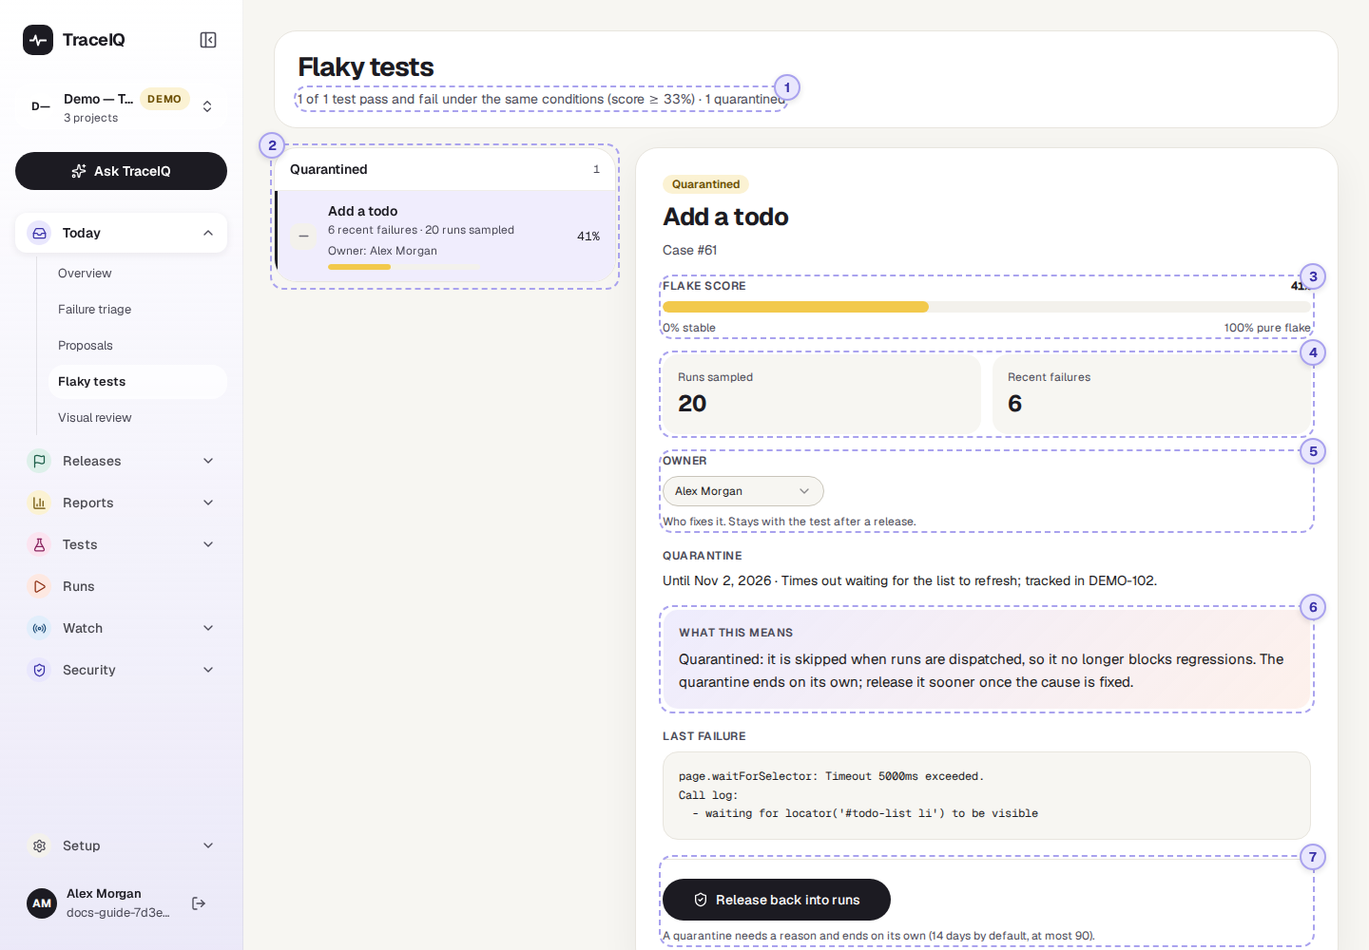
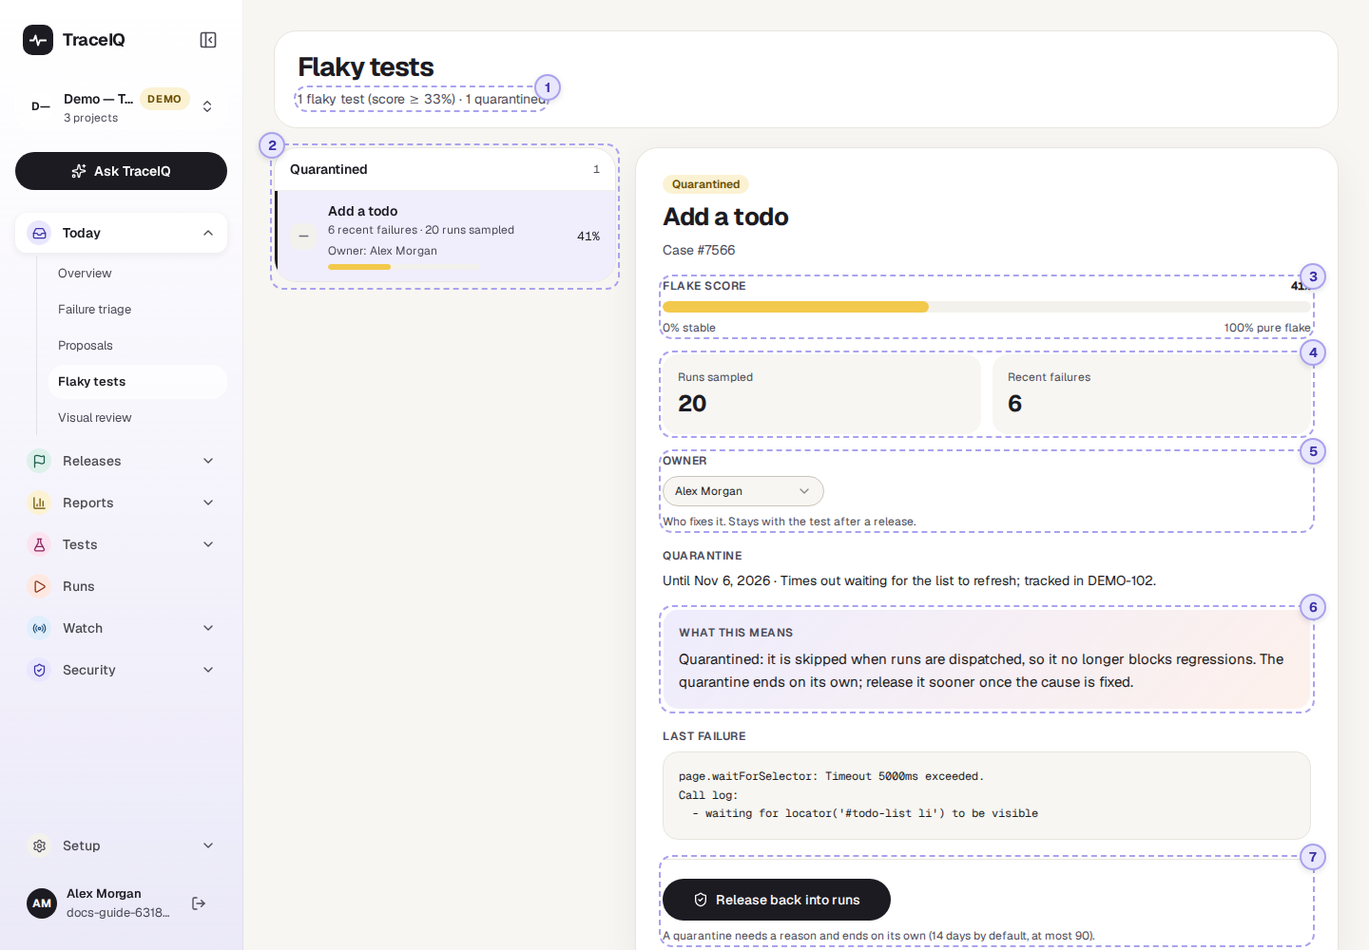
fix(delete): deleting runs clears the summaries built from them; Flaky tests hides stable tests [skip ci]
Failure triage, Flaky tests, flake trends and dependency health kept
showing data from deleted runs: they live in their own tables keyed by
project/case/day. cascade_delete (async path = user-initiated run, suite and
case deletes) now runs derived_prune.prune_after_delete for the affected
projects in the same transaction:
- failure groups with no result left (ticket/incident pointers cleared);
- flake records + per-case daily scores of cases with no result left,
  except quarantined or owned records (a person's decision);
- flake trend days with no run on or before them;
- dependency-health days with no run that day.
The retention sweep (sync path) is untouched on purpose: there, trend
history outliving old runs is intended.

Flaky tests listed every case with run history, mostly at 0%. It now lists
only flaky (score >= 0.33) or quarantined (active/expired) tests, with a
"Show N stable tests" toggle. Guide pages + pictures updated.

Changed region(s): [[0.2188, 0.062, 0.5938, 0.124], [0.5312, 0.589, 0.8438, 0.62], [0.5, 0.248, 0.5312, 0.279]]

diff --git a/frontend/src/pages/FlakyTests.tsx b/frontend/src/pages/FlakyTests.tsx
@@ -6,14 +6,13 @@ import { toast } from 'sonner';
 import { useActiveProjectId } from '@/hooks/useActiveProject';
 import { flakesApi, FlakinessEntry } from '@/api/flakes';
 import { FlakeOwnerSelect, QuarantineDialog } from '@/components/flakes/FlakeControls';
-import { errorDetail, quarantineSummary } from '@/components/flakes/flakeHelpers';
+import { errorDetail, FLAKY_SCORE, isListedFlake, quarantineSummary } from '@/components/flakes/flakeHelpers';
 import {
     DetailCard, EmptyState, Eyebrow, KindChip, ListGroup, ListRow, PageHeader, Panel, Pill, SplitView,
 } from '@/components/redesign/primitives';
 import { cn } from '@/lib/utils';
 
 const pctOf = (score: number) => Math.round(Math.max(0, Math.min(1, score)) * 100);
-const FLAKY_SCORE = 0.33;
 const barColour = (score: number) => (score >= 0.66 ? 'bg-[#E0603A]' : score >= FLAKY_SCORE ? 'bg-[#F2C94C]' : 'bg-[#8FD3B6]');
 
 // ---------------------------------------------------------------------------
@@ -157,6 +156,7 @@ function FlakeDetail({ entry, projectId }: { entry: FlakinessEntry; projectId: n
 export default function FlakyTests() {
     const projectId = useActiveProjectId();
     const [selectedId, setSelectedId] = useState<number | null>(null);
+    const [showStable, setShowStable] = useState(false);
 
     const { data: entries, isLoading, error } = useQuery({
         queryKey: ['flakiness', projectId],
@@ -164,7 +164,11 @@ export default function FlakyTests() {
         enabled: !!projectId,
     });
 
-    const list = [...(entries ?? [])].sort((a, b) => b.flake_score - a.flake_score);
+    const all = [...(entries ?? [])].sort((a, b) => b.flake_score - a.flake_score);
+    // Every test with run history has a record; only flaky or quarantined
+    // ones are listed unless the viewer asks for the stable ones too.
+    const stableCount = all.filter((e) => !isListedFlake(e)).length;
+    const list = showStable ? all : all.filter(isListedFlake);
     const groups = [
         { name: 'Needs a decision', items: list.filter((e) => e.quarantine_state === 'expired') },
         { name: 'Still in runs', items: list.filter((e) => e.quarantine_state === 'none') },
@@ -172,10 +176,9 @@ export default function FlakyTests() {
     ].filter((g) => g.items.length > 0);
     const selected = list.find((e) => e.test_case_id === selectedId) ?? groups[0]?.items[0] ?? null;
     const quarantined = list.filter((e) => e.quarantine_state === 'active').length;
-    // The list includes every test with history, stable ones too. Count as
-    // flaky the same line the bars and Flake trends use (score >= 0.33,
+    // Flaky = the line the bars and Flake trends use (score >= 0.33,
     // flake_patterns.FLAKY_SCORE; the gate's 0.4 is a separate, stricter line).
-    const flakyCount = list.filter((e) => e.flake_score >= FLAKY_SCORE).length;
+    const flakyCount = all.filter((e) => e.flake_score >= FLAKY_SCORE).length;
 
     return (
         <div className="flex flex-col gap-5">
@@ -183,9 +186,14 @@ export default function FlakyTests() {
                 title="Flaky tests"
                 subtitle={
                     !projectId ? 'Pick a project in the sidebar.'
-                        : entries ? `${flakyCount} of ${list.length} test${list.length === 1 ? '' : 's'} pass and fail under the same conditions (score ≥ ${Math.round(FLAKY_SCORE * 100)}%) · ${quarantined} quarantined`
+                        : entries ? `${flakyCount} flaky test${flakyCount === 1 ? '' : 's'} (score ≥ ${Math.round(FLAKY_SCORE * 100)}%) · ${quarantined} quarantined`
                             : 'Tests that pass and fail under the same conditions. Quarantine them so they stop blocking runs.'
                 }
+                actions={stableCount > 0 ? (
+                    <Button variant="outline" size="sm" onClick={() => { setShowStable((v) => !v); setSelectedId(null); }}>
+                        {showStable ? 'Hide stable tests' : `Show ${stableCount} stable test${stableCount === 1 ? '' : 's'}`}
+                    </Button>
+                ) : undefined}
             />
 
             {!projectId ? (
@@ -199,6 +207,7 @@ export default function FlakyTests() {
             ) : list.length === 0 ? (
                 <EmptyState title="No flaky tests found">
                     When a test's retries show it passing and failing under the same conditions, it appears here with a flake score so you can quarantine it.
+                    {stableCount > 0 && ` ${stableCount} test${stableCount === 1 ? ' has' : 's have'} run history and look${stableCount === 1 ? 's' : ''} stable.`}
                 </EmptyState>
             ) : (
                 <SplitView

diff --git a/frontend/public/docs/today/flaky-tests.html b/frontend/public/docs/today/flaky-tests.html
@@ -69,10 +69,12 @@
         </figure>
 
         <div class="part"><span class="num">1</span><h2 id="summary" data-toc="① The summary line">The summary line</h2></div>
-        <p>Under the heading, for example <em>"1 of 3 tests pass and fail under the same conditions (score ≥ 33%) · 0
-          quarantined"</em>: how many of the tests in the list are flaky (a flake score of 33% or
-          more, the same line as <em>Flake trends</em>; mostly stable tests are listed too), and how
-          many are quarantined right now.</p>
+        <p>Under the heading, for example <em>"1 flaky test (score ≥ 33%) · 1 quarantined"</em>: how
+          many tests in the project are flaky (a flake score of 33% or more, the same line as
+          <em>Flake trends</em>), and how many are quarantined right now.</p>
+        <p>The list shows only flaky tests and quarantined ones. Stable tests are hidden; the
+          <strong>Show N stable tests</strong> button on the right of the heading adds them to the
+          list, and <strong>Hide stable tests</strong> takes them away again.</p>
 
         <div class="part"><span class="num">2</span><h2 id="list" data-toc="② The list of tests">The list of tests</h2></div>
         <figure>
@@ -216,7 +218,8 @@
         <ul>
           <li><strong>TraceIQ quarantines on its own, too.</strong> When a test reaches a score of 40% or more over at least 6 results and isn't quarantined, it is quarantined automatically for 14 days. Its reason then starts with "auto:", for example "auto: flake score 0.45 over 12 runs". An automatic quarantine is lifted by itself if the score drops below 15%; one that a person set never is.</li>
           <li><strong>An ended quarantine is never renewed by itself.</strong> The test runs again, and only a person can quarantine it again.</li>
-          <li><strong>The list isn't only flaky tests.</strong> Every test that has run gets a score, so in a project with history the list also holds stable tests at 0%, and the summary line counts them too. Look at the score and colour, not just at whether a test is listed.</li>
+          <li><strong>Stable tests are hidden, not missing.</strong> Every test that has run gets a score. The list shows a test once its score reaches 33%, or while it has a quarantine (also one that has ended and needs a decision), whatever its score. <strong>Show N stable tests</strong> lists the rest.</li>
+          <li><strong>Deleting runs clears scores.</strong> When the last result of a test is deleted, its score goes too, unless the test is quarantined or has an owner: those are someone's decision and stay.</li>
           <li><strong>Tests are matched by name.</strong> The score and the failure count follow the test's name within the project; two tests with the same name are counted together.</li>
           <li><strong>A quarantine shows up elsewhere.</strong> <em>Release readiness</em> lists the active quarantines, with owner and end date, and can be set to refuse a release when too many tests are quarantined or score 40% or more.</li>
           <li><strong>Who can do what.</strong> Anyone with access to the project can look. Quarantining, releasing and changing the owner need the <em>editor</em> role, and every one of them is written to the audit log.</li>

diff --git a/frontend/public/docs/runs/runs.html b/frontend/public/docs/runs/runs.html
@@ -139,6 +139,7 @@
           <li>Select runs with their tick boxes (or <strong>Select all on this page</strong>) and a <strong>Delete N selected</strong> button appears at the top.</li>
           <li><strong>More → Delete all runs</strong> deletes every run in every project where you are an editor, whatever the search or filters show. Use it with care.</li>
           <li>Deleting removes the run with its screenshots, videos and logs, and asks you to confirm first. It is recorded in the audit log.</li>
+          <li>What was worked out from deleted runs goes with them once nothing else supports it: failure groups on <em>Failure triage</em> with no failure left, flake scores of tests with no result left (a quarantined or owned test keeps its score), and the days on <em>Flake trends</em> and <em>Dependency health</em> that no remaining run covers.</li>
           <li>At the bottom, the page controls move through the list, and set how many runs a page shows (25, 50 or 100).</li>
         </ul>
         <figure>

diff --git a/frontend/src/components/flakes/flakeHelpers.ts b/frontend/src/components/flakes/flakeHelpers.ts
@@ -55,3 +55,14 @@ export function attemptsOf(result: { result_payload?: unknown }): RetryAttempt[]
   const attempts = (result.result_payload as { attempts?: unknown } | null | undefined)?.attempts;
   return Array.isArray(attempts) ? (attempts as RetryAttempt[]) : [];
 }
+
+/** The line the bars, the count and Flake trends use (flake_patterns.FLAKY_SCORE). */
+export const FLAKY_SCORE = 0.33;
+
+/** Whether a test belongs on the Flaky tests list: flaky by score, or under a
+ * quarantine (active, or expired and waiting for a decision) whatever its
+ * score. Every case with run history has a record, so without this the list
+ * is mostly stable tests. */
+export function isListedFlake(e: Pick<FlakinessEntry, 'flake_score' | 'quarantine_state'>): boolean {
+    return e.quarantine_state !== 'none' || e.flake_score >= FLAKY_SCORE;
+}

diff --git a/e2e/docs-capture/pages/today-flaky-tests.spec.ts b/e2e/docs-capture/pages/today-flaky-tests.spec.ts
@@ -19,7 +19,7 @@ test('Today › Flaky tests', async ({ page, browser }) => {
     await page.screenshot({ path: out(`${DIR}/page.png`) });
 
     // 2. Its parts, numbered (the guide explains each number).
-    const subtitle = main.getByText(/pass and fail under the same conditions.*·/);
+    const subtitle = main.getByText(/flaky tests? \(score ≥ \d+%\) ·/);
     const list = main.locator('section').filter({ has: page.getByRole('button', { pressed: true }) }).first();
     const score = detail.getByText('Flake score', { exact: true }).locator('xpath=ancestor::div[contains(@class,"flex-col")][1]');
     const facts = detail.getByText('Runs sampled', { exact: true }).locator('xpath=ancestor::div[contains(@class,"grid")][1]');

diff --git a/backend/tests/integration/test_derived_prune_db.py b/backend/tests/integration/test_derived_prune_db.py
@@ -1,0 +1,93 @@
+"""Deleting runs also removes the summaries built from them (derived_prune).
+
+Failure triage, Flaky tests, flake trends and dependency health kept showing
+data from deleted runs. Reuses the entity-delete scene: two projects in one
+workspace, each with a suite run (result in a failure group) and a case run.
+
+    ./run-tests-live.sh tests/integration/test_derived_prune_db.py -q
+"""
+from __future__ import annotations
+
+from datetime import datetime, timedelta
+
+from sqlalchemy import text
+
+from app.models import FlakeDailySnapshot, FlakeRecord, VendorHealthDaily
+from tests.integration.test_entity_delete_db import (  # noqa: F401  (fixtures)
+    _resync, _scalar, pytestmark, scene, session,
+)
+
+
+async def _add_summaries(session, tree, *, quarantined: bool = False):
+    today = datetime.utcnow().date()
+    session.add_all([
+        FlakeDailySnapshot(project_id=tree.project_id, day=today, flaky_cases=1),
+        FlakeDailySnapshot(project_id=tree.project_id, day=today - timedelta(days=3)),
+        VendorHealthDaily(project_id=tree.project_id, day=today, vendor="cdn.example"),
+    ])
+    if quarantined:
+        session.add(FlakeRecord(test_case_id=tree.case_id, step_id="s2",
+                                is_quarantined=True, quarantine_source="manual"))
+    await session.commit()
+
+
+async def _count(session, table, where):
+    return await _scalar(session, f"SELECT count(*) FROM {table} WHERE {where}")
+
+
+async def test_failure_group_goes_with_its_last_result(session, scene):
+    from app.api.endpoints.test_runs import delete_run
+
+    d, s = scene.doomed, scene.sibling
+    await delete_run(run_id=d.run_id, session=session, current_user=scene.admin)
+    await _resync(session)
+    assert await _count(session, "failurecluster", f"id = {d.cluster_id}") == 0
+    # The case still has a result (its own run), so its flake record stays.
+    assert await _count(session, "flakerecord", f"test_case_id = {d.case_id}") == 1
+    assert await _count(session, "failurecluster", f"id = {s.cluster_id}") == 1
+
+
+async def test_deleting_every_run_clears_flakes_trends_and_vendor_health(session, scene):
+    from app.api.endpoints.test_runs import delete_runs
+
+    d, s = scene.doomed, scene.sibling
+    await _add_summaries(session, d, quarantined=True)
+    await _add_summaries(session, s)
+    await delete_runs(run_ids=[d.run_id, d.case_run_id], all=False,
+                      session=session, current_user=scene.admin)
+    await _resync(session)
+
+    # Unowned, unquarantined score: gone. A quarantine is a decision: kept.
+    assert await _count(session, "flakerecord",
+                        f"test_case_id = {d.case_id} AND step_id IS NULL") == 0
+    assert await _count(session, "flakerecord",
+                        f"test_case_id = {d.case_id} AND is_quarantined") == 1
+    assert await _count(session, "flakedailysnapshot", f"project_id = {d.project_id}") == 0
+    assert await _count(session, "vendorhealthdaily", f"project_id = {d.project_id}") == 0
+
+    # The other project in the workspace keeps all of it.
+    assert await _count(session, "flakerecord", f"test_case_id = {s.case_id}") == 1
+    assert await _count(session, "flakedailysnapshot", f"project_id = {s.project_id}") == 2
+    assert await _count(session, "vendorhealthdaily", f"project_id = {s.project_id}") == 1
+    assert await _count(session, "failurecluster", f"id = {s.cluster_id}") == 1
+
+
+async def test_trend_days_with_a_remaining_run_are_kept(session, scene):
+    from app.api.endpoints.test_runs import delete_run
+
+    d = scene.doomed
+    await _add_summaries(session, d)
+    # Both scene runs were created now; push the surviving one back two days so
+    # only the 3-days-ago trend point loses everything behind it.
+    await session.exec(text("UPDATE testrun SET created_at = now() - interval '2 days' "
+                            "WHERE id = :i"), params={"i": d.case_run_id})
+    await session.commit()
+    await delete_run(run_id=d.run_id, session=session, current_user=scene.admin)
+    await _resync(session)
+
+    days = (await session.exec(text(
+        "SELECT day FROM flakedailysnapshot WHERE project_id = :p ORDER BY day"),
+        params={"p": d.project_id})).all()
+    assert [r[0] for r in days] == [datetime.utcnow().date()]
+    # No run is left on today's date, so today's dependency-health row goes.
+    assert await _count(session, "vendorhealthdaily", f"project_id = {d.project_id}") == 0

diff --git a/backend/app/services/derived_prune.py b/backend/app/services/derived_prune.py
@@ -1,0 +1,69 @@
+"""Remove run-derived summaries whose runs are gone.
+
+Failure groups, flake scores, flake trends and dependency health are built
+from runs but stored on their own, keyed by project / case / day, so deleting
+runs left them behind: Failure triage and Flaky tests kept listing failures
+from runs that no longer existed. After a user-initiated delete of runs,
+suites or cases, `prune_after_delete` drops the rows that nothing remaining
+supports, in the same transaction:
+
+* failure groups with no result left in them (ticket/incident pointers to
+  them are cleared — both are plain ids);
+* flake records of cases with no result left — unless quarantined or owned:
+  those are someone's decision, and quarantine expiry has its own rules;
+* per-case daily flake scores of cases with no result left;
+* daily flake trend points with no run on or before that day;
+* daily dependency-health rows with no run that day.
+
+Not called by the retention sweep: there, history outliving old runs is
+intended (flake trends keep 180 days whatever the run retention).
+"""
+from __future__ import annotations
+
+import logging
+from typing import Dict, Iterable
+
+import sqlalchemy as sa
+
+logger = logging.getLogger(__name__)
+
+# Order matters only for the pointer clears, which run before the delete.
+_STATEMENTS = (
+    ("issueticket", "UPDATE issueticket SET cluster_id = NULL WHERE cluster_id IN ("
+     " SELECT c.id FROM failurecluster c WHERE c.project_id = ANY(:p)"
+     " AND NOT EXISTS (SELECT 1 FROM testcaseresult r WHERE r.cluster_id = c.id))"),
+    ("incident", "UPDATE incident SET matched_cluster_id = NULL WHERE matched_cluster_id IN ("
+     " SELECT c.id FROM failurecluster c WHERE c.project_id = ANY(:p)"
+     " AND NOT EXISTS (SELECT 1 FROM testcaseresult r WHERE r.cluster_id = c.id))"),
+    ("failurecluster", "DELETE FROM failurecluster c WHERE c.project_id = ANY(:p)"
+     " AND NOT EXISTS (SELECT 1 FROM testcaseresult r WHERE r.cluster_id = c.id)"),
+    ("flakerecord", "DELETE FROM flakerecord f USING testcase tc"
+     " WHERE tc.id = f.test_case_id AND tc.project_id = ANY(:p)"
+     " AND f.is_quarantined = false AND f.owner_user_id IS NULL"
+     " AND NOT EXISTS (SELECT 1 FROM testcaseresult r WHERE r.test_case_id = f.test_case_id)"),
+    ("flakecasescoredaily", "DELETE FROM flakecasescoredaily d WHERE d.project_id = ANY(:p)"
+     " AND NOT EXISTS (SELECT 1 FROM testcaseresult r WHERE r.test_case_id = d.test_case_id)"),
+    ("flakedailysnapshot", "DELETE FROM flakedailysnapshot s WHERE s.project_id = ANY(:p)"
+     " AND NOT EXISTS (SELECT 1 FROM testrun t WHERE t.project_id = s.project_id"
+     " AND t.created_at < s.day + 1)"),
+    ("vendorhealthdaily", "DELETE FROM vendorhealthdaily v WHERE v.project_id = ANY(:p)"
+     " AND NOT EXISTS (SELECT 1 FROM testrun t WHERE t.project_id = v.project_id"
+     " AND t.created_at >= v.day AND t.created_at < v.day + 1)"),
+)
+
+
+async def prune_after_delete(conn, project_ids: Iterable[int]) -> Dict[str, int]:
+    """Run the prunes for these projects on `conn` (caller's transaction).
+    Returns rows affected per table. Postgres only (ANY over an int array,
+    date + int); a no-op elsewhere so SQLite unit fixtures are unaffected."""
+    pids = sorted({int(p) for p in project_ids if p is not None})
+    if not pids or conn.dialect.name != "postgresql":
+        return {}
+    out: Dict[str, int] = {}
+    for table, sql in _STATEMENTS:
+        result = await conn.execute(sa.text(sql), {"p": pids})
+        if result.rowcount:
+            out[table] = out.get(table, 0) + int(result.rowcount)
+    if out:
+        logger.info("[delete] pruned derived rows for projects %s: %s", pids, out)
+    return out

diff --git a/backend/app/services/entity_delete.py b/backend/app/services/entity_delete.py
@@ -360,6 +360,7 @@ class DeleteReport:
     object_keys: List[str] = field(default_factory=list)
     objects_deleted: int = 0
     object_errors: List[str] = field(default_factory=list)
+    pruned: Dict[str, int] = field(default_factory=dict)  # derived_prune, async path
 
     @property
     def total_rows(self) -> int:
@@ -563,8 +564,20 @@ async def cascade_delete(session, root: str, ids: Iterable[int]) -> DeleteReport
         # Uploaded HARs (WP15d): the prefix is derived from the project id.
         from app.services.har_files import project_prefix
         build_keys.extend(project_prefix(pid) for pid in sorted(set(ids)))
+    # Run-derived summaries (failure groups, flake scores/trends, dependency
+    # health) are judged after the rows go; a project delete takes them all.
+    project_ids: Set[int] = set()
+    if root in ("testrun", "testsuite", "testcase") and ids:
+        table = _metadata().tables[root]
+        for chunk in _chunks(ids):
+            result = await conn.execute(
+                sa.select(table.c.project_id).distinct().where(_pk(table).in_(chunk)))
+            project_ids.update(p for p in result.scalars().all() if p is not None)
     report = await _drive_async(_cascade(root, ids), conn)
     report.object_keys.extend(build_keys)
+    if project_ids:
+        from app.services.derived_prune import prune_after_delete
+        report.pruned = await prune_after_delete(conn, project_ids)
     logger.info("[delete] %s %s: %d rows, %d nullified, %d object keys",
                 root, report.root_ids, report.total_rows,
                 sum(report.nullified.values()), len(report.object_keys))

diff --git a/frontend/public/docs/today/flaky-tests.md b/frontend/public/docs/today/flaky-tests.md
@@ -36,7 +36,9 @@ The page shows the project selected at the top of the sidebar. The tests are lis
 
 ## 1. The summary line
 
-Under the heading, for example *"1 of 3 tests pass and fail under the same conditions (score ≥ 33%) · 0 quarantined"*: how many of the tests in the list are flaky (a flake score of 33% or more, the same line as *Flake trends*; mostly stable tests are listed too), and how many are quarantined right now.
+Under the heading, for example *"1 flaky test (score ≥ 33%) · 1 quarantined"*: how many tests in the project are flaky (a flake score of 33% or more, the same line as *Flake trends*), and how many are quarantined right now.
+
+The list shows only flaky tests and quarantined ones. Stable tests are hidden; the **Show N stable tests** button on the right of the heading adds them to the list, and **Hide stable tests** takes them away again.
 
 ## 2. The list of tests
 
@@ -147,7 +149,8 @@ A quarantine that has ended shows Quarantine expired; a test that is not quarant
 
 - **TraceIQ quarantines on its own, too.** When a test reaches a score of 40% or more over at least 6 results and isn't quarantined, it is quarantined automatically for 14 days. Its reason then starts with "auto:", for example "auto: flake score 0.45 over 12 runs". An automatic quarantine is lifted by itself if the score drops below 15%; one that a person set never is.
 - **An ended quarantine is never renewed by itself.** The test runs again, and only a person can quarantine it again.
-- **The list isn't only flaky tests.** Every test that has run gets a score, so in a project with history the list also holds stable tests at 0%, and the summary line counts them too. Look at the score and colour, not just at whether a test is listed.
+- **Stable tests are hidden, not missing.** Every test that has run gets a score. The list shows a test once its score reaches 33%, or while it has a quarantine (also one that has ended and needs a decision), whatever its score. **Show N stable tests** lists the rest.
+- **Deleting runs clears scores.** When the last result of a test is deleted, its score goes too, unless the test is quarantined or has an owner: those are someone's decision and stay.
 - **Tests are matched by name.** The score and the failure count follow the test's name within the project; two tests with the same name are counted together.
 - **A quarantine shows up elsewhere.** *Release readiness* lists the active quarantines, with owner and end date, and can be set to refuse a release when too many tests are quarantined or score 40% or more.
 - **Who can do what.** Anyone with access to the project can look. Quarantining, releasing and changing the owner need the *editor* role, and every one of them is written to the audit log.

diff --git a/frontend/public/docs/runs/runs.md b/frontend/public/docs/runs/runs.md
@@ -87,6 +87,7 @@ Shows only runs with one result. Each button matches exactly one status:
 - Select runs with their tick boxes (or **Select all on this page**) and a **Delete N selected** button appears at the top.
 - **More → Delete all runs** deletes every run in every project where you are an editor, whatever the search or filters show. Use it with care.
 - Deleting removes the run with its screenshots, videos and logs, and asks you to confirm first. It is recorded in the audit log.
+- What was worked out from deleted runs goes with them once nothing else supports it: failure groups on *Failure triage* with no failure left, flake scores of tests with no result left (a quarantined or owned test keeps its score), and the days on *Flake trends* and *Dependency health* that no remaining run covers.
 - At the bottom, the page controls move through the list, and set how many runs a page shows (25, 50 or 100).
 
 ![Showing 1–50 of the runs, a 50 / page menu, and buttons for the first, previous, next and last page](../media/runs/runs/pagination.png)
